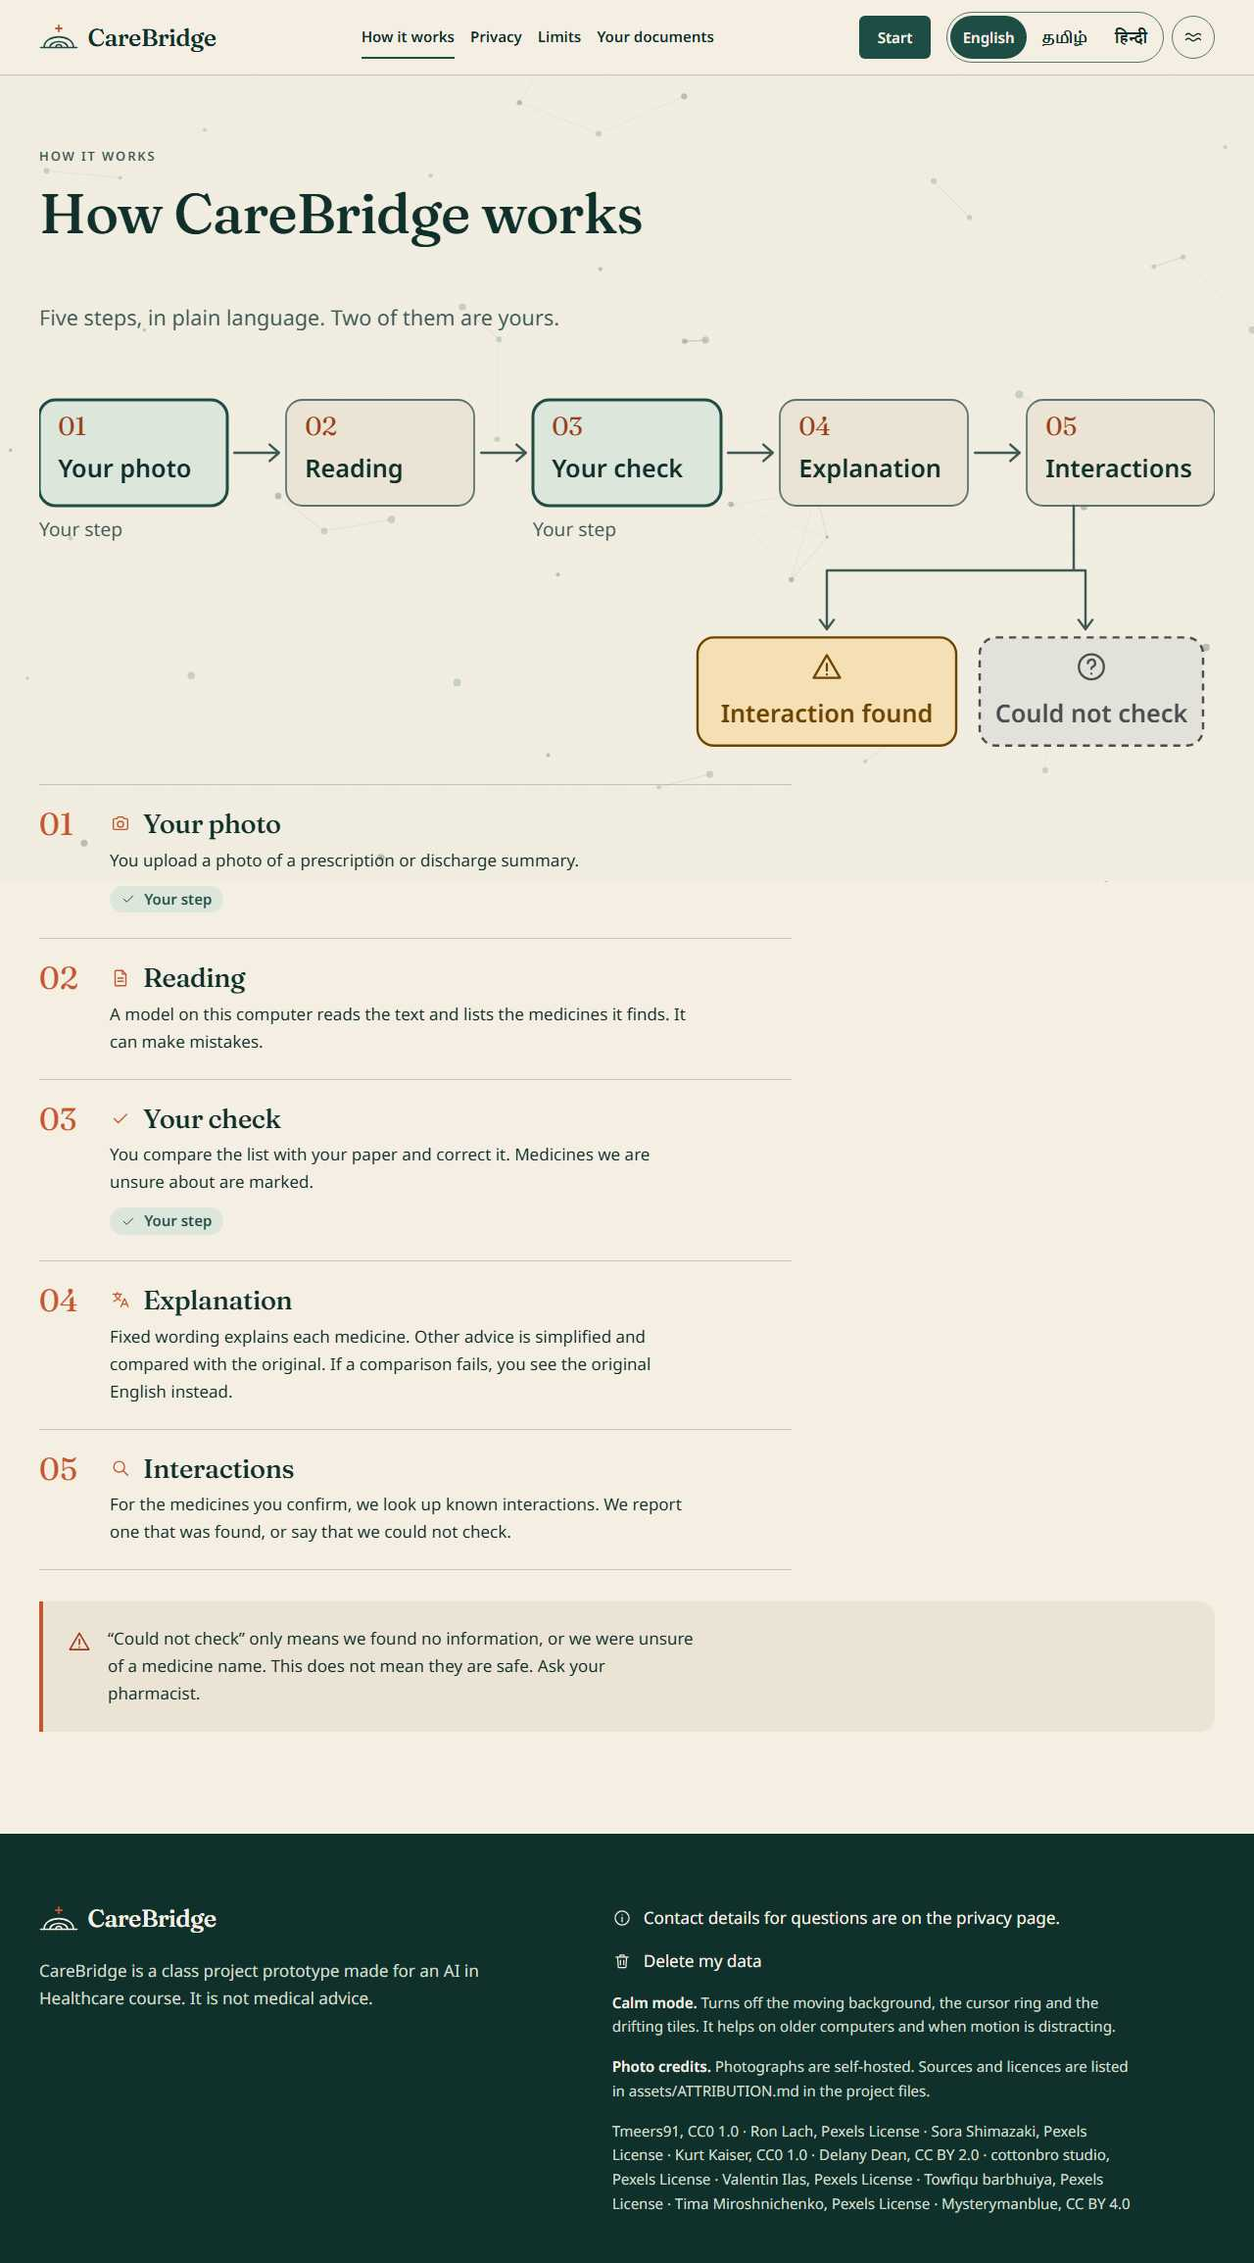
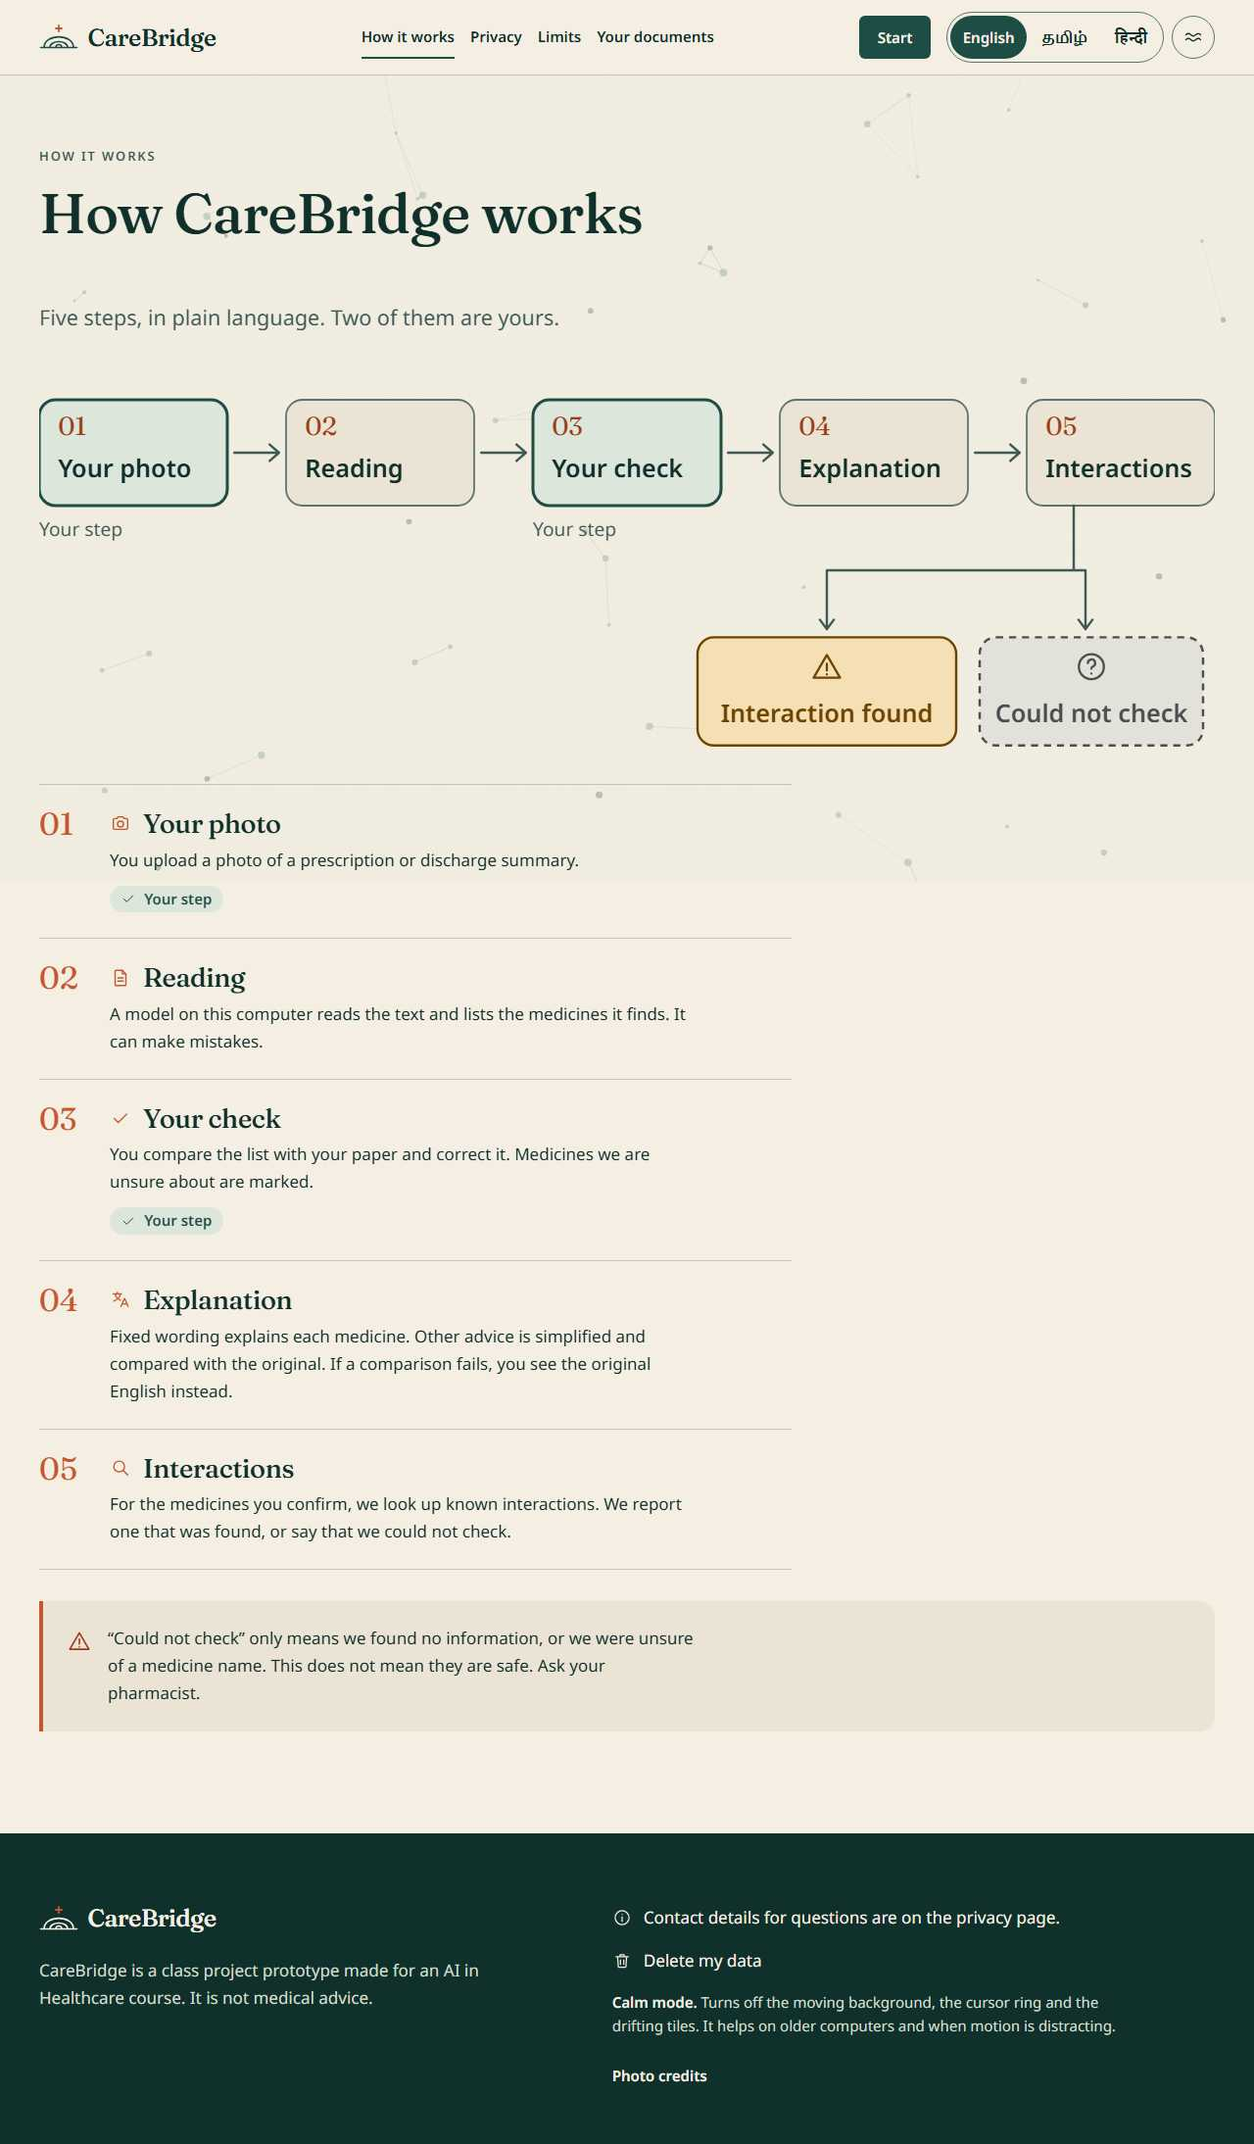
Phase 6c-4: photographs placed and credited

diff --git a/frontend/e2e/photos.spec.ts b/frontend/e2e/photos.spec.ts
@@ -1,0 +1,56 @@
+import { expect, test } from '@playwright/test'
+import { readFileSync } from 'node:fs'
+import { fileURLToPath } from 'node:url'
+import { setLangInit } from './flowhelpers'
+
+const ROOT = fileURLToPath(new URL('../../', import.meta.url))
+const manifest = JSON.parse(readFileSync(`${ROOT}frontend/src/photos.manifest.json`, 'utf8')) as Record<string, { credit: string; source: string }>
+const attribution = readFileSync(`${ROOT}assets/ATTRIBUTION.md`, 'utf8')
+
+test('every photograph in the manifest is credited with photographer, licence and a link, and ATTRIBUTION.md says the same', async ({ page }) => {
+  await page.goto('/')
+  await page.locator('.footer-credits summary').click()
+  const links = await page.locator('.footer-credits a').evaluateAll((a) => a.map((e) => ({ text: (e.textContent ?? '').trim(), href: (e as HTMLAnchorElement).href })))
+  expect(links.length).toBe(Object.keys(manifest).length)
+  for (const [name, e] of Object.entries(manifest)) {
+    expect(links, name).toContainEqual({ text: e.credit, href: e.source })
+    expect(e.credit).toMatch(/, (CC0 1\.0|CC BY [\d.]+|Pexels License)$/)
+    expect(attribution, `${name} in ATTRIBUTION.md`).toContain(e.source)
+    expect(attribution).toContain(e.credit.split(', ')[0])
+  }
+  for (const a of await page.locator('.footer-credits a').all()) expect(await a.getAttribute('rel')).toContain('noreferrer')
+})
+
+test('the landing photographs use responsive WebP/JPEG sets with explicit size, alt text, and the first screen is eager', async ({ page }) => {
+  await setLangInit(page, 'en')
+  await page.goto('/')
+  const imgs = await page.locator('.landing picture img').evaluateAll((l) =>
+    l.map((i) => ({ w: i.getAttribute('width'), h: i.getAttribute('height'), alt: i.getAttribute('alt'), loading: i.getAttribute('loading'), srcset: i.getAttribute('srcset') ?? '', webp: (i.parentElement!.querySelector('source') as HTMLSourceElement | null)?.type, inMosaic: !!i.closest('.mosaic') })),
+  )
+  expect(imgs.length).toBeGreaterThanOrEqual(10)
+  for (const i of imgs) {
+    expect(Number(i.w) > 0 && Number(i.h) > 0).toBe(true)
+    expect(i.alt).not.toBeNull()
+    expect(i.webp).toBe('image/webp')
+    expect(i.srcset).toMatch(/800w/)
+    if (i.inMosaic) expect(i.loading).toBe('eager')
+    else {
+      expect(i.loading).toBe('lazy')
+      expect(i.alt!.length, 'a photograph outside the decorative mosaic needs alt text').toBeGreaterThan(5)
+    }
+  }
+  expect(imgs.filter((i) => i.inMosaic).length, 'about half of the mosaic picture tiles are photographs').toBeGreaterThanOrEqual(5)
+})
+
+test('hero photographs stay under 500 KB at 1440 px', async ({ browser }) => {
+  const c = await browser.newContext({ viewport: { width: 1440, height: 900 } })
+  const page = await c.newPage()
+  let bytes = 0
+  const pending: Promise<void>[] = []
+  page.on('requestfinished', (r) => { if (/\/photos\/.*-800\.webp/.test(r.url()) && r.url().match(/leaves|breakfast|stethoscope|water|linen|clipboard/)) pending.push(r.sizes().then((s) => { bytes += s.responseBodySize })) })
+  await page.goto('/', { waitUntil: 'networkidle' })
+  await Promise.all(pending)
+  expect(bytes).toBeGreaterThan(100_000)
+  expect(bytes).toBeLessThan(500_000)
+  await c.close()
+})

diff --git a/frontend/src/styles/pages.css b/frontend/src/styles/pages.css
@@ -127,18 +127,15 @@ main { overflow-x: clip; }
 .meta-strip svg { color: var(--pine); }
 
 .steps-body { display: grid; gap: var(--s-7); margin-top: var(--s-6); }
-.steps-photo .photo { aspect-ratio: 4 / 5 !important; max-height: 34rem; width: 100%; }
-.steps-photo .photo img { height: 100%; }
-.steps-list { list-style: none; margin: 0; padding: 0; display: grid; }
-.steps-list li { display: grid; grid-template-columns: clamp(4rem, 12vw, 7.5rem) 1fr; gap: var(--s-4); padding-block: var(--s-6); border-top: 1px solid var(--line); }
-.steps-list li:last-child { border-bottom: 1px solid var(--line); }
+.land-steps { list-style: none; margin: 0; padding: 0; display: grid; }
+.land-steps li { display: grid; grid-template-columns: clamp(4rem, 12vw, 7.5rem) 1fr; gap: var(--s-4); padding-block: var(--s-6); border-top: 1px solid var(--line); }
+.land-steps li:last-child { border-bottom: 1px solid var(--line); }
 .step-num { font-family: var(--font-display); font-size: clamp(3.4rem, 7vw, 6rem); line-height: 0.9; color: var(--terracotta); font-variation-settings: 'opsz' 144; }
-.steps-list h3 { display: flex; align-items: center; gap: var(--s-3); margin-bottom: var(--s-2); }
-.steps-list h3 svg { color: var(--pine); flex: none; }
+.land-steps h3 { display: flex; align-items: center; gap: var(--s-3); margin-bottom: var(--s-2); }
+.land-steps h3 svg { color: var(--pine); flex: none; }
 @media (min-width: 64rem) {
-  .steps-body { grid-template-columns: minmax(0, 4fr) minmax(0, 7fr); gap: var(--s-8); align-items: start; }
-  .steps-list li:nth-child(2) { margin-left: clamp(0rem, 4vw, 3.5rem); }
-  .steps-list li:nth-child(3) { margin-left: clamp(0rem, 8vw, 7rem); }
+  .land-steps li:nth-child(2) { margin-left: clamp(0rem, 4vw, 3.5rem); }
+  .land-steps li:nth-child(3) { margin-left: clamp(0rem, 8vw, 7rem); }
 }
 
 .band-paper2 { background: var(--paper-2); border-block: 1px solid var(--line); }
@@ -199,3 +196,17 @@ main { overflow-x: clip; }
 @media (prefers-reduced-motion: reduce) { .mosaic-cell { animation: none !important; transform: none !important; } }
 html.calm .mosaic-cell { transform: none !important; }
 .pl-ic-found { color: var(--sev-moderate); } .pl-ic-unk { color: var(--sev-unknown); }
+
+/* Phase 6c-4: photographs placed */
+.step-photo { grid-column: 1 / -1; }
+.step-photo .photo, .confirm-photo .photo, .privacy-photo .photo { aspect-ratio: 3 / 2 !important; width: 100%; border-radius: var(--r-md); overflow: hidden; }
+.step-photo .photo img, .confirm-photo .photo img, .privacy-photo .photo img { width: 100%; height: 100%; object-fit: cover; }
+.confirm-photo { margin-top: var(--s-6); max-width: 26rem; }
+.privacy-photo { margin-top: var(--s-6); max-width: 24rem; }
+@media (min-width: 48rem) {
+  .land-steps li { grid-template-columns: minmax(10rem, 17rem) clamp(5.5rem, 9vw, 8rem) 1fr; align-items: center; }
+  .step-photo { grid-column: auto; }
+}
+.footer-credits summary { cursor: pointer; min-height: 2.75rem; display: flex; align-items: center; color: var(--on-dark); }
+.footer-credits ul { margin: var(--s-2) 0 0; padding-left: 1.1rem; display: grid; gap: var(--s-1); }
+.footer-credits a { color: var(--on-dark); text-decoration-color: var(--sage); text-underline-offset: 0.2em; }

diff --git a/frontend/src/components/Mosaic.tsx b/frontend/src/components/Mosaic.tsx
@@ -10,20 +10,20 @@ type Cell = { x: number; y: number; w: number; h: number; tone: TileTone; patter
  * to designed placeholder tiles when a photograph is missing. Drift is translate-only CSS; tilt is a small rotation. */
 const CELLS: Cell[] = [
   { x: 0, y: 0, w: 44, h: 34, tone: 'pine', photo: 'leaves', dx: 8, dy: 6, dur: 22, delay: 0 },
-  { x: 46, y: 0, w: 26, h: 20, tone: 'pine', pattern: 'lines', icon: 'pill', dx: -6, dy: 8, dur: 18, delay: -4 },
+  { x: 46, y: 0, w: 26, h: 20, tone: 'pine', photo: 'breakfast', dx: -6, dy: 8, dur: 18, delay: -4 },
   { x: 74, y: 0, w: 26, h: 26, tone: 'sage', pattern: 'grain', icon: 'leaf', dx: 7, dy: -7, dur: 25, delay: -9 },
   { x: 46, y: 22, w: 12, h: 14, tone: 'terracotta', pattern: 'grain', dx: 5, dy: 6, dur: 16, delay: -2 },
   { x: 60, y: 22, w: 12, h: 14, tone: 'mist', pattern: 'dots', dx: -5, dy: 5, dur: 20, delay: -7 },
   { x: 74, y: 28, w: 26, h: 20, tone: 'paper', icon: 'calendar', dx: -8, dy: 4, dur: 23, delay: -12 },
-  { x: 0, y: 36, w: 20, h: 28, tone: 'ink', pattern: 'arches', icon: 'shield', dx: 6, dy: -8, dur: 21, delay: -5 },
+  { x: 0, y: 36, w: 20, h: 28, tone: 'pine', photo: 'stethoscope', dx: 6, dy: -8, dur: 21, delay: -5 },
   { x: 22, y: 36, w: 30, h: 28, tone: 'pine', photo: 'water', dx: -7, dy: 7, dur: 26, delay: -14 },
   { x: 54, y: 38, w: 18, h: 14, tone: 'sage', pattern: 'lines', dx: 6, dy: 5, dur: 17, delay: -1 },
   { x: 54, y: 54, w: 18, h: 24, tone: 'pine', pattern: 'dots', icon: 'clock', dx: -6, dy: -6, dur: 24, delay: -10 },
   { x: 74, y: 50, w: 26, h: 28, tone: 'mist', pattern: 'arches', icon: 'document', dx: 8, dy: 7, dur: 19, delay: -6 },
   { x: 0, y: 66, w: 34, h: 44, tone: 'pine', photo: 'linen', dx: 7, dy: -6, dur: 27, delay: -16 },
-  { x: 36, y: 66, w: 16, h: 16, tone: 'paper', pattern: 'lines', dx: -5, dy: 6, dur: 15, delay: -3 },
+  { x: 36, y: 66, w: 16, h: 16, tone: 'paper', pattern: 'lines', icon: 'pill', dx: -5, dy: 6, dur: 15, delay: -3 },
   { x: 36, y: 84, w: 16, h: 26, tone: 'sage', pattern: 'grain', icon: 'search', dx: 6, dy: 5, dur: 22, delay: -8 },
-  { x: 54, y: 80, w: 46, h: 30, tone: 'pine', pattern: 'lines', dx: -8, dy: -5, dur: 28, delay: -11 },
+  { x: 54, y: 80, w: 46, h: 30, tone: 'pine', photo: 'clipboard', dx: -8, dy: -5, dur: 28, delay: -11 },
 ]
 
 export function Mosaic() {
@@ -59,7 +59,7 @@ export function Mosaic() {
           style={{ left: `${c.x}%`, top: `${(c.y / 110) * 100}%`, width: `${c.w}%`, height: `${(c.h / 110) * 100}%`, '--dx': `${c.dx}px`, '--dy': `${c.dy}px`, '--dur': `${c.dur}s`, '--delay': `${c.delay}s` } as CSSProperties}
         >
           <Tile tone={c.tone} pattern={c.pattern ?? 'none'} className="mosaic-tile">
-            {c.photo ? <Photo name={c.photo} alt="" missingLabel="" sizes="(min-width: 64rem) 20vw, 50vw" /> : null}
+            {c.photo ? <Photo name={c.photo} alt="" missingLabel="" eager sizes="(min-width: 64rem) 20vw, 50vw" /> : null}
             {c.icon ? <Icon name={c.icon} size={c.w > 20 ? 44 : 32} /> : null}
           </Tile>
         </div>

diff --git a/frontend/src/pages/LandingPage.tsx b/frontend/src/pages/LandingPage.tsx
@@ -13,10 +13,10 @@ import { useT } from '../i18n/I18n'
 import { LANGS, STRINGS, translate } from '../i18n/translate'
 import { usePageTitle } from './usePageTitle'
 
-const STEPS: { n: '1' | '2' | '3'; icon: IconName }[] = [
-  { n: '1', icon: 'camera' },
-  { n: '2', icon: 'search' },
-  { n: '3', icon: 'document' },
+const STEPS: { n: '1' | '2' | '3'; icon: IconName; photo: string; alt: string }[] = [
+  { n: '1', icon: 'camera', photo: 'phone', alt: 'ui.photo.phone' },
+  { n: '2', icon: 'search', photo: 'notebook', alt: 'ui.photo.notebook' },
+  { n: '3', icon: 'document', photo: 'pillbox', alt: 'ui.photo.pillbox_b' },
 ]
 const PRIVACY: { id: 'local' | 'stored' | 'delete'; icon: IconName }[] = [
   { id: 'local', icon: 'lock' },
@@ -76,12 +76,12 @@ export function LandingPage() {
       <Container as="section" className="steps section" aria-labelledby="steps-title">
         <SectionHeading number="01" label={t('ui.steps.label')} title={t('ui.steps.title')} id="steps-title" />
         <div className="steps-body">
-          <div className="steps-photo" data-parallax="0.06">
-            <Photo name="blister" alt={t('ui.photo.blister')} missingLabel={t('ui.photo.missing')} sizes="(min-width: 64rem) 30vw, 90vw" />
-          </div>
-          <ol className="steps-list">
-            {STEPS.map(({ n, icon }) => (
+          <ol className="land-steps">
+            {STEPS.map(({ n, icon, photo, alt }) => (
               <Reveal as="li" key={n} delay={Number(n) * 90}>
+                <div className="step-photo">
+                  <Photo name={photo} alt={t(alt)} missingLabel={t('ui.photo.missing')} sizes="(min-width: 48rem) 22rem, 90vw" />
+                </div>
                 <span className="step-num" aria-hidden="true">{`0${n}`}</span>
                 <div>
                   <h3><Icon name={icon} size={26} />{t(`ui.steps.${n}.title`)}</h3>
@@ -102,6 +102,9 @@ export function LandingPage() {
               <p>{t('ui.confirm.body1')}</p>
               <p>{t('ui.confirm.body2')}</p>
               <p>{t('ui.confirm.body3')}</p>
+            </div>
+            <div className="confirm-photo">
+              <Photo name="blister" alt={t('ui.photo.blister')} missingLabel={t('ui.photo.missing')} sizes="(min-width: 64rem) 26rem, 90vw" />
             </div>
           </div>
           <Reveal className="confirm-art">
@@ -139,6 +142,9 @@ export function LandingPage() {
             <p className="label on-dark-label"><span className="label-num">04</span><span>{t('ui.privacy.label')}</span></p>
             <h2 id="privacy-title">{t('ui.privacy.title')}</h2>
             <p className="privacy-link"><TextLink to="/privacy">{t('ui.privacy.link')}</TextLink></p>
+            <div className="privacy-photo">
+              <Photo name="clipboard" alt={t('ui.photo.clipboard')} missingLabel={t('ui.photo.missing')} sizes="(min-width: 64rem) 24rem, 90vw" />
+            </div>
           </div>
           <ul className="privacy-list">
             {PRIVACY.map(({ id, icon }) => (

diff --git a/frontend/src/layout/Footer.tsx b/frontend/src/layout/Footer.tsx
@@ -4,7 +4,7 @@ import { useT } from '../i18n/I18n'
 import manifest from '../photos.manifest.json'
 import { Wordmark } from './Wordmark'
 
-const CREDITS = Object.values(manifest as Record<string, { credit?: string }>).flatMap((e) => (e.credit ? [e.credit] : []))
+const CREDITS = Object.values(manifest as Record<string, { credit?: string; source?: string }>).flatMap((e) => (e.credit && e.source ? [{ credit: e.credit, source: e.source }] : []))
 
 export function Footer() {
   const { t } = useT()
@@ -27,10 +27,22 @@ export function Footer() {
           <p id="calm-explain" className="footer-small">
             <strong>{t('ui.calm.label')}.</strong> {t('ui.calm.explain')}
           </p>
-          <p className="footer-small">
-            <strong>{t('ui.footer.credits')}.</strong> {t('ui.footer.credits_body')}
-          </p>
-          {CREDITS.length ? <p className="footer-small footer-credits">{CREDITS.join(' · ')}</p> : null}
+          <details className="footer-small footer-credits">
+            <summary>
+              <strong>{t('ui.footer.credits')}</strong>
+            </summary>
+            <p>{t('ui.footer.credits_body')}</p>
+            <p className="muted-on-dark">{t('ui.footer.credits_list')}</p>
+            <ul>
+              {CREDITS.map((c) => (
+                <li key={c.source}>
+                  <a href={c.source} target="_blank" rel="noopener noreferrer">
+                    {c.credit}
+                  </a>
+                </li>
+              ))}
+            </ul>
+          </details>
         </div>
       </div>
     </footer>

diff --git a/scripts/p6c_photos.py b/scripts/p6c_photos.py
@@ -1,0 +1,6 @@
+"""Phase 6c-4 strings: corrected photo descriptions. The 6a alt texts for pillbox ("Hands holding...") and water ("on a saucer") do not match
+the photographs that were obtained; the old ids are left untouched (listed for the reviewers) and the pages use these. id -> (en, ta, hi)."""
+STRINGS: dict[str, tuple[str, str, str]] = {
+    "ui.photo.pillbox_b": ("A weekly pill organiser with its lids open", "மூடிகள் திறந்த வாராந்திர மாத்திரைப் பெட்டி", "ढक्कन खुले हुए साप्ताहिक गोली-डिब्बा"),
+    "ui.footer.credits_list": ("Each photograph, its photographer, licence and source page", "ஒவ்வொரு புகைப்படமும், எடுத்தவர், உரிமம், மூலப் பக்கம்", "हर फ़ोटो, उसके फ़ोटोग्राफ़र, लाइसेंस और स्रोत पन्ना"),
+}

diff --git a/scripts/prepare_photos.py b/scripts/prepare_photos.py
@@ -50,6 +50,7 @@ def main() -> None:
         manifest[name] = {"width": widths[-1], "height": round(im.height * widths[-1] / im.width), "widths": widths}
         if name in sources:
             manifest[name]["credit"] = f"{sources[name]['photographer']}, {sources[name]['license']}"
+            manifest[name]["source"] = sources[name]["source_url"]  # shown as the credit link in the footer (Phase 6c)
         if name not in sources:
             print(f"warning: {name} has no entry in assets/photo_sources.json (add source, photographer, licence)")
         print(f"{name}: {widths} {max((OUT / f'{name}-{widths[-1]}.{e}').stat().st_size for e in ('webp', 'jpg')) // 1024} KB at the largest size")

diff --git a/docs/PHOTOS_NEEDED.md b/docs/PHOTOS_NEEDED.md
@@ -23,3 +23,7 @@ No recognisable faces. No brand logos. Nothing readable (drug names, barcodes, h
 | `clipboard.jpg` | clipboard papers from above, illegible text | 2000 px wide |
 
 Candidates that were looked at and rejected: the printed side of the blister pack photograph (readable drug name and barcodes; only the empty foil side is used) and a restaurant table photograph with a wine glass and part of a person.
+
+
+## Status after Phase 6c-4
+All ten themes are obtained and placed (hero mosaic: leaves, breakfast, stethoscope, water, linen, clipboard; steps: phone, notebook, pillbox; why you confirm first: blister; privacy: clipboard). Checked in treated screenshots: the pink and blue pillbox and the breakfast photo sit calmly in the duotone; the stethoscope crop shows no print; the clipboard shows no readable text; no faces and no brand names. The pillbox shows partial weekday letters on its lids ("TUE"), which is not drug information. The 6a alt strings `ui.photo.pillbox` ("Hands holding...") and `ui.photo.water` ("on a saucer") describe photographs that were not the ones obtained; they are left unchanged for the reviewers and the pages use `ui.photo.pillbox_b`. No photograph is used on the 404 page or the empty states (a picture there would add weight without helping).
